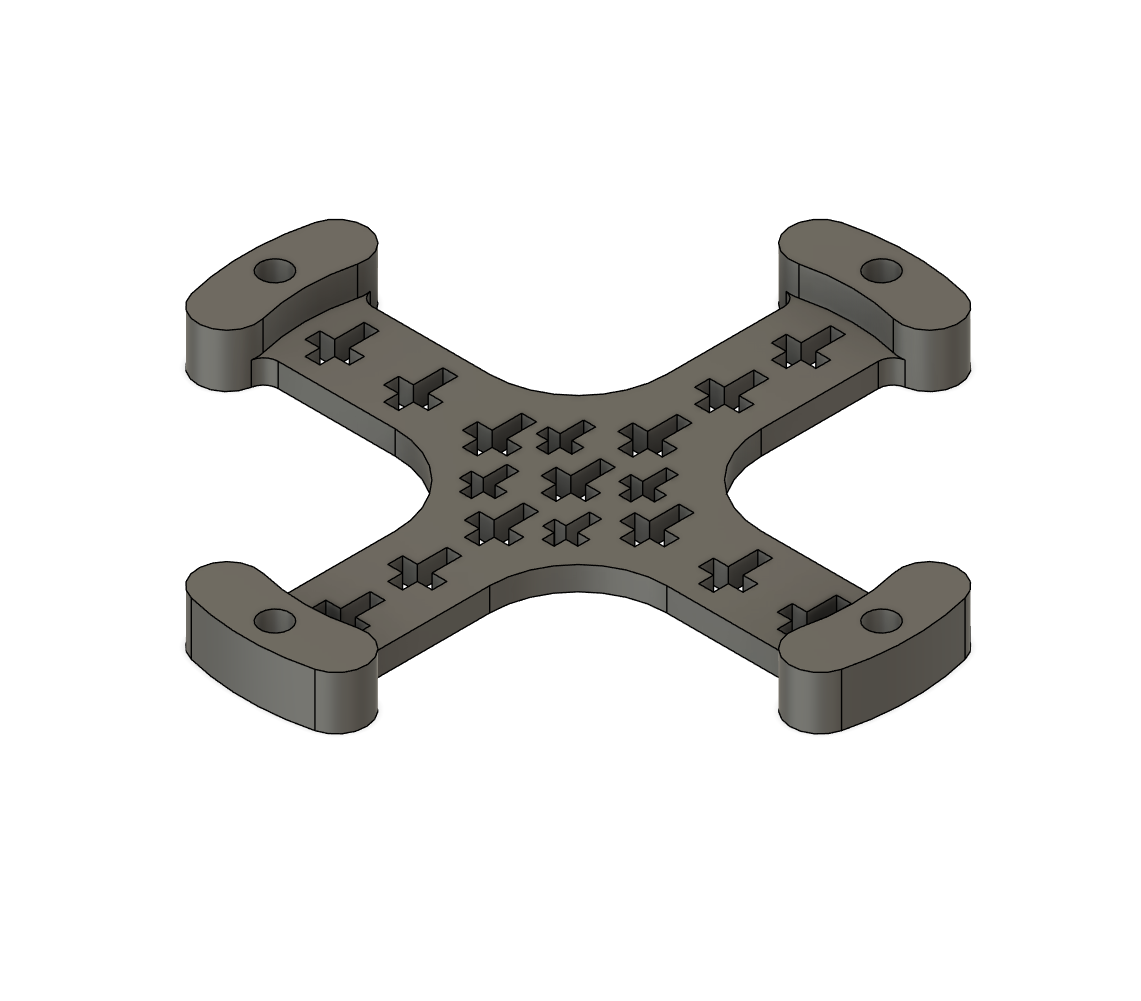
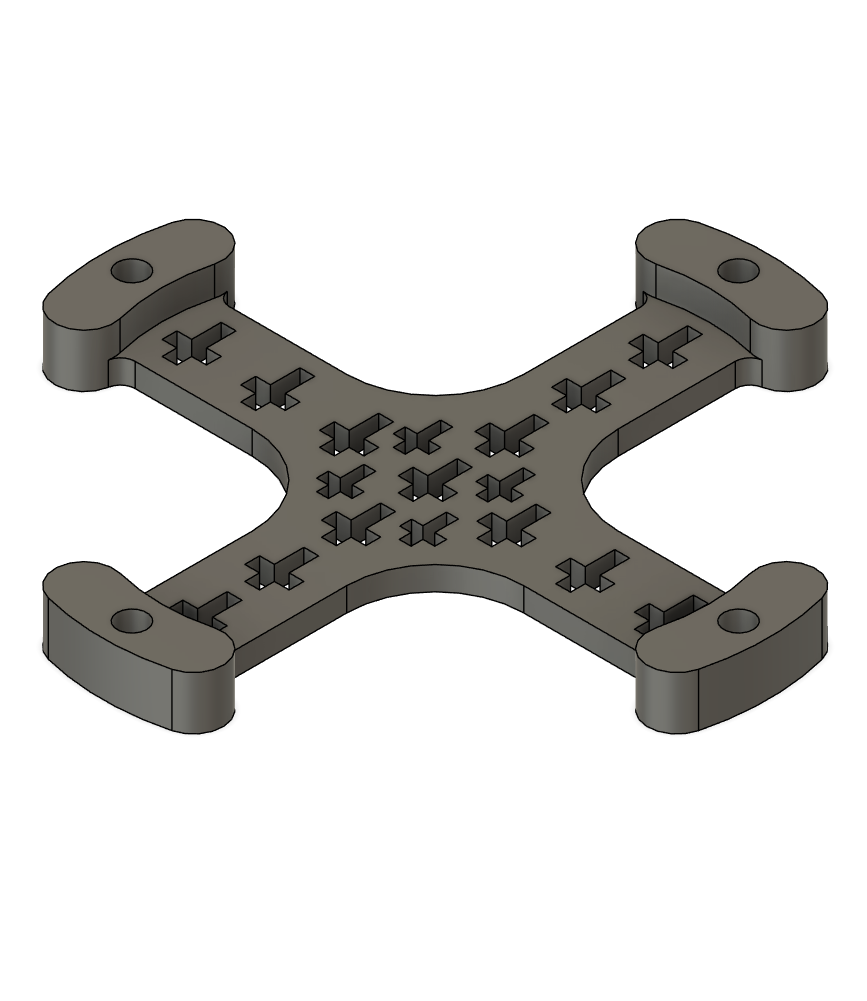
Adjusted formatting

Changed region(s): [[0.0311, 0.2168, 0.9654, 0.7433]]

diff --git a/Projects/Wireless Speaker/README.md b/Projects/Wireless Speaker/README.md
@@ -92,11 +92,11 @@ Another mini project was the 3D printed battery cage. this was very helpful in e
 One consideration that I had was making speaker grills to protect the drivers from damage. I modelled some grills to fit the speakers, but I ultimately decided to not go through with the grills for a couple reasons. First, printing the grills would be bulky and potentially block volume coming out of my speaker. Additionally, I didn't want to spend more money to purchase a better material for covers. So far, my speaker hasn't taken on any damage and it has been working well.
 <table>
   <tr>
-    <td><img src="./Pictures/Rubber Foot Pic.jpg" height="250"></td>
-    <td><img src="./Pictures/Speaker-SpeakerHandlePosition.jpg.jpg" height="250"></td>
-    <td><img src="./Pictures/Speaker-DriverScrewColour.jpg.jpg" height="250"></td>
-    <td><img src="./Pictures/Grill - RL Channel.png" height="250"></td>
-    <td><img src="./Pictures/Grill - Sub.png" height="250"></td>
+    <td><img src="./Pictures/Rubber Foot Pic.png" height="250"></td>
+    <td><img src="./Pictures/Speaker-SpeakerHandlePosition.jpg" height="250"></td>
+    <td><img src="./Pictures/Speaker-DriverScrewColour.jpg" height="250"></td>
+    <td><img src="./Pictures/Grill - RL Channel.png" height="200"></td>
+    <td><img src="./Pictures/Grill - Sub.png" height="200"></td>
   </tr>
 </table>
 
